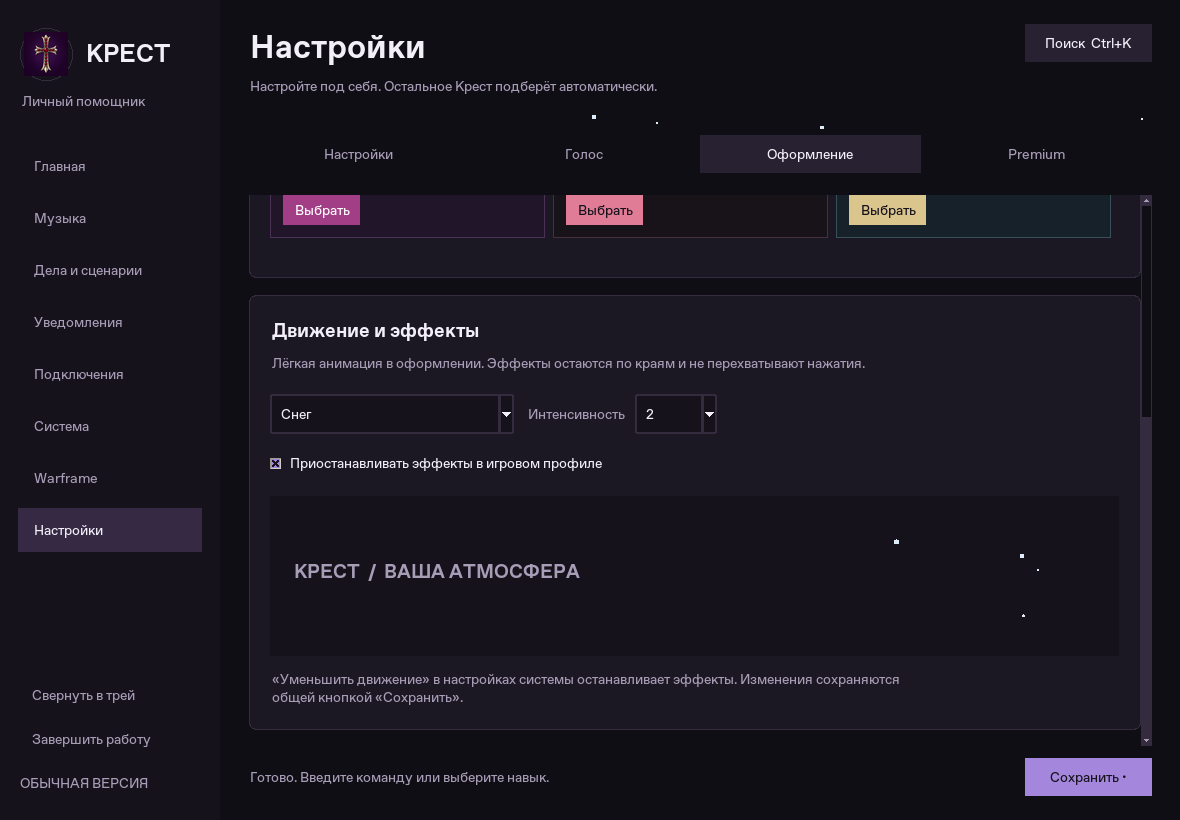
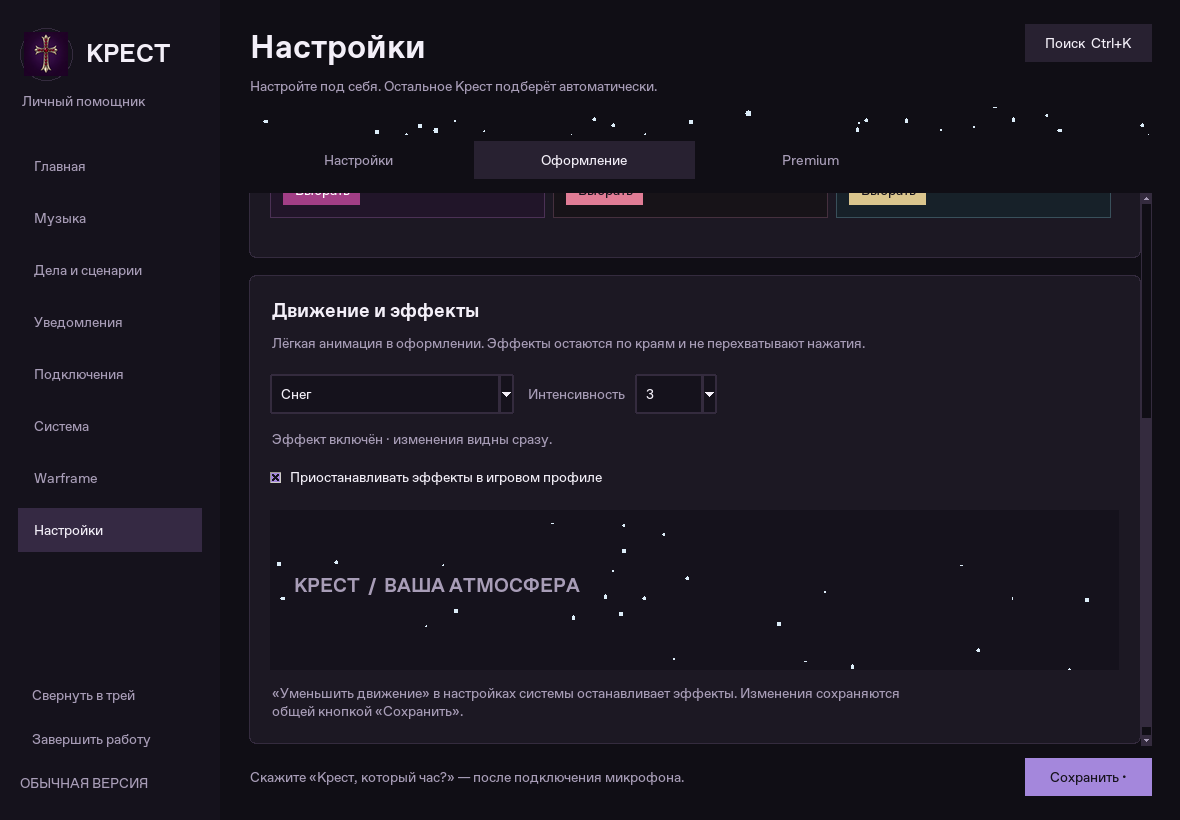
Keep menu effects visible in maximized windows and across particle cycles

diff --git a/menu_effects.py b/menu_effects.py
@@ -30,6 +30,17 @@ class ParticleScene:
         self.particles = []
         self.mode = None
 
+    def _x(self, width, border_only):
+        if border_only:
+            # Keep recycled particles at the edges too, not behind the content mask.
+            return self.random.choice(
+                (
+                    self.random.uniform(6, min(20, width - 4)),
+                    self.random.uniform(max(4, width - 20), width - 6),
+                )
+            )
+        return self.random.uniform(4, width - 4)
+
     def draw(self, mode, intensity, dt=0.08, border_only=False):
         width, height = self.canvas.winfo_width(), self.canvas.winfo_height()
         if width < 4 or height < 4:
@@ -40,18 +51,11 @@ class ParticleScene:
             self.mode = mode
             self.size = (width, height)
             for _ in range(count):
-                x = self.random.uniform(4, width - 4)
-                if border_only and self.random.random() < 0.75:
-                    x = self.random.choice(
-                        [
-                            self.random.uniform(4, 22),
-                            self.random.uniform(max(4, width - 22), width - 4),
-                        ]
-                    )
+                x = self._x(width, border_only)
                 self.particles.append(
                     {
                         "x": x,
-                        "y": self.random.uniform(-height, height),
+                        "y": self.random.uniform(2, max(2, height - 2)),
                         "speed": self.random.uniform(10, 32),
                         "r": self.random.uniform(1, 2.8),
                         "phase": self.random.uniform(0, 6.28),
@@ -61,11 +65,12 @@ class ParticleScene:
         for p in self.particles:
             p["y"] += p["speed"] * dt * (-1 if mode == "embers" else 1)
             p["phase"] += dt
-            if p["y"] > height + 35:
-                p["y"] = -35
-                p["x"] = self.random.uniform(4, width - 4)
-            if p["y"] < -height:
-                p["y"] = height + 15
+            if mode == "embers" and p["y"] < -4:
+                p["y"] = height + 4
+                p["x"] = self._x(width, border_only)
+            elif mode != "embers" and p["y"] > height + 4:
+                p["y"] = -4
+                p["x"] = self._x(width, border_only)
             x = p["x"] + math.sin(p["phase"]) * 5
             y = p["y"]
             r = p["r"]
@@ -105,17 +110,35 @@ class MenuEffects:
         self.window = None
         self.job = None
         self.closed = False
+        self.overlay_error = ""
         if os.name == "nt":
-            self.window = tk.Toplevel(app)
-            self.window.withdraw()
-            self.window.overrideredirect(True)
-            self.window.configure(bg=TRANSPARENT)
-            self.window.attributes("-transparentcolor", TRANSPARENT)
-            canvas = tk.Canvas(self.window, bg=TRANSPARENT, highlightthickness=0)
-            canvas.pack(fill="both", expand=True)
-            self.scenes.append(ParticleScene(canvas))
+            try:
+                self.window = tk.Toplevel(app)
+                self.window.withdraw()
+                self.window.overrideredirect(True)
+                self.window.configure(bg=TRANSPARENT)
+                self.window.attributes("-transparentcolor", TRANSPARENT)
+                canvas = tk.Canvas(self.window, bg=TRANSPARENT, highlightthickness=0)
+                canvas.pack(fill="both", expand=True)
+                self.scenes.append(ParticleScene(canvas))
+            except (tk.TclError, OSError, AttributeError) as exc:
+                self._disable_overlay(exc)
         self.last = time.monotonic()
         self.refresh()
+
+    def _disable_overlay(self, error):
+        self.overlay_error = str(error)
+        if self.window is not None:
+            try:
+                self.window.destroy()
+            except tk.TclError:
+                pass
+            self.window = None
+        self.scenes = [scene for scene in self.scenes if scene.canvas.winfo_exists()]
+
+    def _status(self, text):
+        if self.app.effect_status.get() != text:
+            self.app.effect_status.set(text)
 
     def add_preview(self, canvas):
         self.scenes.append(ParticleScene(canvas))
@@ -139,8 +162,12 @@ class MenuEffects:
                 scene.clear()
         if self.window:
             self.window.withdraw()
-        if self.config()["mode"] != "off":
+        mode = self.config()["mode"]
+        self.header.configure(height=28 if mode != "off" else 14)
+        if mode != "off":
             self.tick()
+        else:
+            self._status("Эффекты выключены. Выберите вариант в списке.")
 
     def tick(self):
         self.job = None
@@ -155,34 +182,50 @@ class MenuEffects:
             if reduced
             else self.app.config_mgr.snapshot()["accessibility"]["reduce_motion"]
         )
-        active = self.app.state() == "normal" and self.app.winfo_viewable()
+        active = self.app.state() in ("normal", "zoomed") and self.app.winfo_viewable()
         game = self.app.runtime.performance.active == "game"
         paused = not motion or not active or (cfg["pause_in_game"] and game)
         now = time.monotonic()
         dt = min(0.15, now - self.last)
         self.last = now
         if paused:
+            self._status(
+                "Пауза: включено «Уменьшить движение» в разделе Система → Доступ и восстановление."
+                if not motion
+                else "Пауза: меню скрыто."
+                if not active
+                else "Пауза: игровой профиль. Снимите переключатель ниже, чтобы видеть эффекты во время игры."
+            )
             for scene in self.scenes:
                 if scene.canvas.winfo_exists():
                     scene.clear()
             if self.window:
                 self.window.withdraw()
         else:
-            if self.window:
-                if self.app.focus_displayof() is not None:
-                    if not self.window.winfo_viewable():
-                        self.window.update_idletasks()
-                        passthrough(self.window)
-                        self.window.deiconify()
-                    move_overlay(
-                        self.window,
-                        self.app.winfo_rootx(),
-                        self.app.winfo_rooty(),
-                        self.app.winfo_width(),
-                        self.app.winfo_height(),
-                    )
-                else:
-                    self.window.withdraw()
+            try:
+                if self.window:
+                    if self.app.focus_displayof() is not None:
+                        if not self.window.winfo_viewable():
+                            self.window.update_idletasks()
+                            passthrough(self.window)
+                            self.window.deiconify()
+                        move_overlay(
+                            self.window,
+                            self.app.winfo_rootx(),
+                            self.app.winfo_rooty(),
+                            self.app.winfo_width(),
+                            self.app.winfo_height(),
+                        )
+                    else:
+                        self.window.withdraw()
+            except (tk.TclError, OSError, AttributeError) as exc:
+                # A failed native transparent window must not stop the in-menu animation.
+                self._disable_overlay(exc)
+            self._status(
+                "Эффект работает в меню и предпросмотре. Наложение по краям недоступно."
+                if self.overlay_error
+                else "Эффект включён · изменения видны сразу."
+            )
             for scene in self.scenes:
                 if scene.canvas.winfo_exists() and scene.canvas.winfo_viewable():
                     scene.draw(
@@ -216,6 +259,7 @@ class AppearancePages:
         )
         self.effect_intensity = tk.StringVar(self, value=str(cfg["intensity"]))
         self.effect_pause = tk.BooleanVar(self, value=cfg["pause_in_game"])
+        self.effect_status = tk.StringVar(self, value="Эффекты выключены.")
         self.effects = None
         for var in (self.effect_mode, self.effect_intensity, self.effect_pause):
             var.trace_add("write", self._effects_changed)
@@ -293,6 +337,9 @@ class AppearancePages:
             state="readonly",
             width=5,
         ).pack(side="left")
+        self.label(card, textvariable=self.effect_status, muted=True, wraplength=650).pack(
+            anchor="w", pady=6
+        )
         ttk.Checkbutton(
             card, text="Приостанавливать эффекты в игровом профиле", variable=self.effect_pause
         ).pack(anchor="w", pady=6)

diff --git a/tests/test_warframe_gui.py b/tests/test_warframe_gui.py
@@ -214,3 +214,121 @@ def test_overlay_survives_lost_foreground_window_and_exits_with_game(tmp_path, m
     monkeypatch.setattr(game_overlay, "draw_cross", draw)
     assert game_overlay.run_overlay(tmp_path / "config.json") == 0
     assert "listening" in states and len(calls) >= 3
+
+
+def test_effects_keep_animating_in_maximized_menu(app, monkeypatch):
+    app.switch_page("appearance")
+    app.update()
+    app.effect_mode.set("Снег")
+    app.update()
+    # Xvfb cannot maximize with Windows' WM state. Exercise the actual renderer
+    # with the exact state returned by Tk on a maximized Windows window.
+    monkeypatch.setattr(app, "state", lambda: "zoomed")
+    app.effects.refresh()
+    scene = app.effects.scenes[0]
+    assert scene.particles and scene.canvas.find_withtag("particles")
+    before = [p["y"] for p in scene.particles]
+    app.effects.last -= 0.1
+    app.after_cancel(app.effects.job)
+    app.effects.tick()
+    assert before != [p["y"] for p in scene.particles]
+    assert app.effects.job is not None
+    assert "включён" in app.effect_status.get()
+    app.effect_mode.set("Выключены")
+    assert not scene.particles and app.effects.job is None
+    assert not app.test_errors
+
+
+def test_effect_status_explains_game_pause_and_resumes_immediately(app):
+    app.switch_page("appearance")
+    app.update()
+    app.runtime.performance.set_mode("game")
+    app.effect_mode.set("Тлеющие искры")
+    assert "игровой профиль" in app.effect_status.get()
+    assert not app.effects.scenes[0].particles
+    app.effect_pause.set(False)
+    assert app.effects.scenes[0].particles
+    app.switch_page("security")
+    app.reduce_motion.set(True)
+    app.effects.refresh()
+    assert "Уменьшить движение" in app.effect_status.get()
+    assert not app.effects.scenes[0].particles
+    app.reduce_motion.set(False)
+    app.effects.refresh()
+    assert app.effects.scenes[0].particles
+    assert not app.test_errors
+
+
+def test_native_overlay_failure_keeps_in_menu_animation_alive(app, monkeypatch):
+    from unittest.mock import MagicMock
+    import menu_effects
+
+    app.update()
+    app.effects._disable_overlay("test setup")
+    native = MagicMock()
+    native.winfo_viewable.return_value = False
+    app.effects.window = native
+    monkeypatch.setattr(app, "focus_displayof", lambda: app)
+
+    def failed(window):
+        raise OSError("Transparent overlay is unavailable")
+
+    monkeypatch.setattr(menu_effects, "passthrough", failed)
+    app.effect_mode.set("Снег")
+    native.destroy.assert_called_once()
+    assert app.effects.window is None
+    assert app.effects.scenes[0].canvas.find_withtag("particles")
+    assert app.effects.job is not None
+    assert "Наложение по краям недоступно" in app.effect_status.get()
+    assert not app.test_errors
+
+
+def test_recycled_particles_stay_visible_and_at_borders():
+    from menu_effects import ParticleScene
+
+    root = tk.Tk()
+    canvas = tk.Canvas(root, width=600, height=400, highlightthickness=0)
+    canvas.pack()
+    root.update()
+    try:
+        scene = ParticleScene(canvas)
+        scene.random.seed(12)
+        for mode in ("snow", "blood", "embers", "stars"):
+            scene.draw(mode, 3, dt=0, border_only=True)
+            assert all(0 <= p["y"] <= 400 for p in scene.particles)
+            for _ in range(1800):  # Several complete screen traversals.
+                scene.draw(mode, 3, dt=0.15, border_only=True)
+            assert all(p["x"] <= 20 or p["x"] >= 580 for p in scene.particles)
+            assert sum(0 <= p["y"] <= 400 for p in scene.particles) >= 20
+            assert 26 <= len(canvas.find_withtag("particles")) <= 52
+    finally:
+        root.destroy()
+
+
+def test_saved_effect_restores_on_next_menu_launch(tmp_path):
+    from welcome_gui import ControlCenterApp, indicator_controller
+
+    path = tmp_path / "config.json"
+    for launch in range(2):
+        ui = ControlCenterApp(config_path=path)
+        try:
+            # Keep onboarding/runtime stopped; reveal the menu for rendering checks.
+            ui.onboarding.place_forget()
+            ui.update()
+            if launch == 0:
+                ui.effect_mode.set("Кровавые потёки")
+                ui.effect_intensity.set("3")
+                ui.effect_pause.set(False)
+                assert ui.save_all_settings()
+            else:
+                assert ui.effect_mode.get() == "Кровавые потёки"
+                assert ui.effect_intensity.get() == "3"
+                assert not ui.effect_pause.get()
+                ui.effects.refresh()
+                assert ui.effects.scenes[0].canvas.find_withtag("particles")
+        finally:
+            ui.runtime.close()
+            ui.integration.stop_all()
+            indicator_controller.stop()
+            logging.getLogger().removeHandler(ui._log_handler)
+            ui.destroy()

diff --git a/welcome_gui.py b/welcome_gui.py
@@ -220,7 +220,9 @@ class ControlCenterApp(
         self.bind("<Escape>", lambda e: voice.stop_speaking())
         self.bind("<Unmap>", self._on_minimize)
         indicator_controller.attach(self)
-        self._poll_job = self.after(150 if self.state() == "normal" else 600, self._poll)
+        self._poll_job = self.after(
+            150 if self.state() in ("normal", "zoomed") else 600, self._poll
+        )
         self._show_welcome()
         if self.setup_message:
             self._append_log(self.setup_message)
@@ -1831,7 +1833,7 @@ class ControlCenterApp(
     def _poll(self):
         if (
             self.current_page.startswith("wf_")
-            and self.state() == "normal"
+            and self.state() in ("normal", "zoomed")
             and time.monotonic() - self.wf_refreshed > 4
         ):
             self.wf_refresh()
@@ -1907,7 +1909,7 @@ class ControlCenterApp(
                         logger.warning("Уведомление трея недоступно; напоминание сохранено в меню")
             elif kind == "shutdown":
                 self._real_quit()
-        if self.state() == "normal" and self.current_page in ("actions", "voice"):
+        if self.state() in ("normal", "zoomed") and self.current_page in ("actions", "voice"):
             self._update_voice_meter()
         now = time.monotonic()
         if not hasattr(self, "_last_refresh") or now - self._last_refresh >= 1:
@@ -2004,7 +2006,9 @@ class ControlCenterApp(
                 f"{len(self.integration.processes)} подключённых сервисов"
             )
         if self.winfo_exists():
-            self._poll_job = self.after(150 if self.state() == "normal" else 600, self._poll)
+            self._poll_job = self.after(
+                150 if self.state() in ("normal", "zoomed") else 600, self._poll
+            )
 
     def _real_quit(self):
         if self.closing:

diff --git a/docs/WARFRAME.md b/docs/WARFRAME.md
@@ -141,6 +141,11 @@
 используются полоса в шапке и предпросмотр. Настройки имеют явные цвета наведения
 и фокуса во всех темах. Эффекты по умолчанию выключены, при сворачивании и
 уменьшении движения останавливаются; есть автоматическая пауза в игровом профиле.
+Развёрнутое окно Windows продолжает анимацию. Частицы видны сразу после выбора
+и остаются по краям после повторных проходов. Под списком эффектов показывается
+состояние и причина паузы; снимите переключатель игрового профиля, если эффекты
+нужны и во время игры. При сбое прозрачного наложения остаются полоса в шапке
+и предпросмотр. Для восстановления выбора после запуска нажмите «Сохранить».
 
 ![Настройка эффектов](ui-appearance.png)
 
